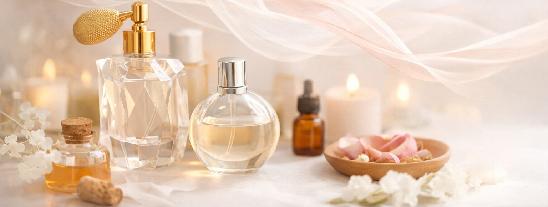
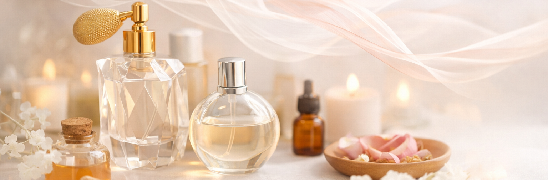
画像追加

diff --git a/fragrance-graph.html b/fragrance-graph.html
@@ -84,9 +84,8 @@
               <a class="btn btn-primary" id="reserve-link" href="reservation.html">この内容で予約へ進む</a>
             </div>
           </div>
-          <div class="reassure-card" aria-label="画像プレースホルダー">
-            <h3>画像プレースホルダー</h3>
-            <p>ここに香りグラフページ用の画像を配置予定です。</p>
+          <div class="reassure-card" aria-label="香水の瓶が並ぶイメージ">
+            <img class="graph-placeholder-image" src="img/TOP/香水の瓶が並ぶ.png" alt="香水の瓶が並ぶ">
           </div>
         </div>
       </div>

diff --git a/css/fragrance-graph.css b/css/fragrance-graph.css
@@ -285,6 +285,17 @@ input[type="range"] {
   color: var(--muted);
 }
 
+.graph-placeholder-image {
+  width: 100%;
+  height: auto;
+  border-radius: 0;
+  object-fit: cover;
+}
+
+.cta-box > .reassure-card {
+  padding: 0;
+}
+
 .cta-box {
   padding: 28px;
   align-items: center;
@@ -550,7 +561,7 @@ input[type="range"] {
 
   .cta-box > .reassure-card {
     min-height: 0;
-    padding: 16px;
+    padding: 0;
     align-content: start;
   }
 
